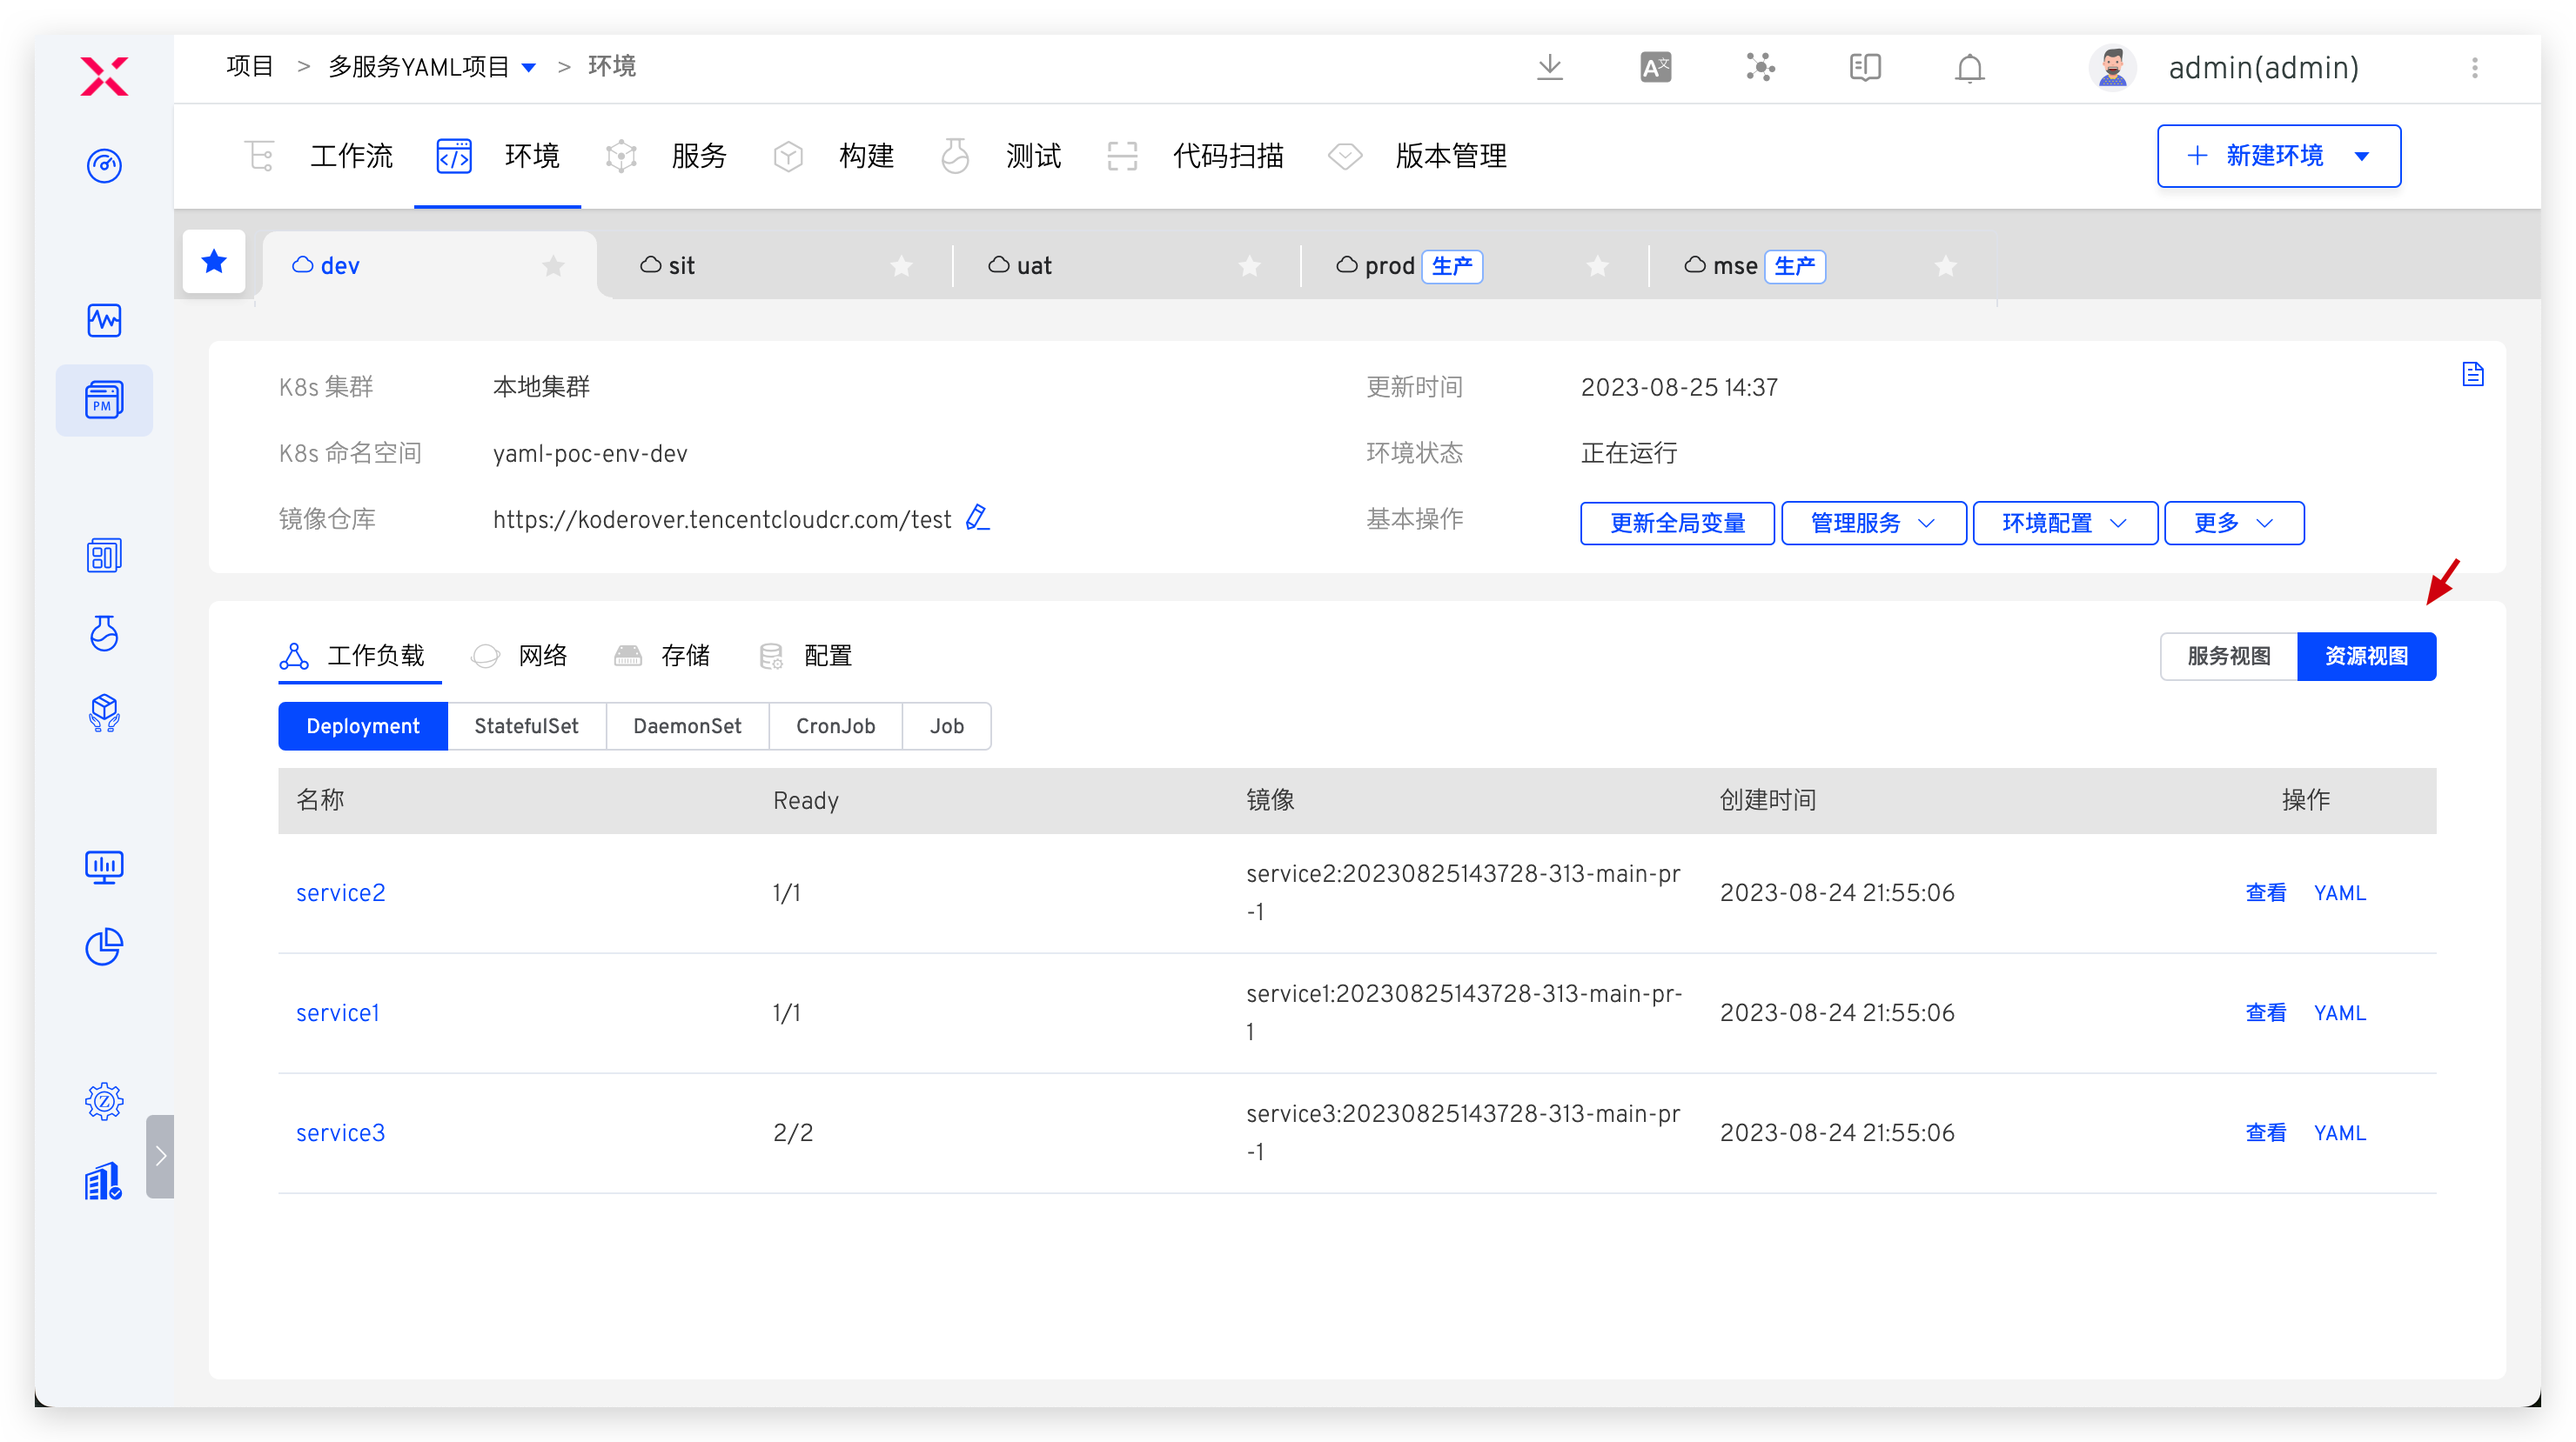
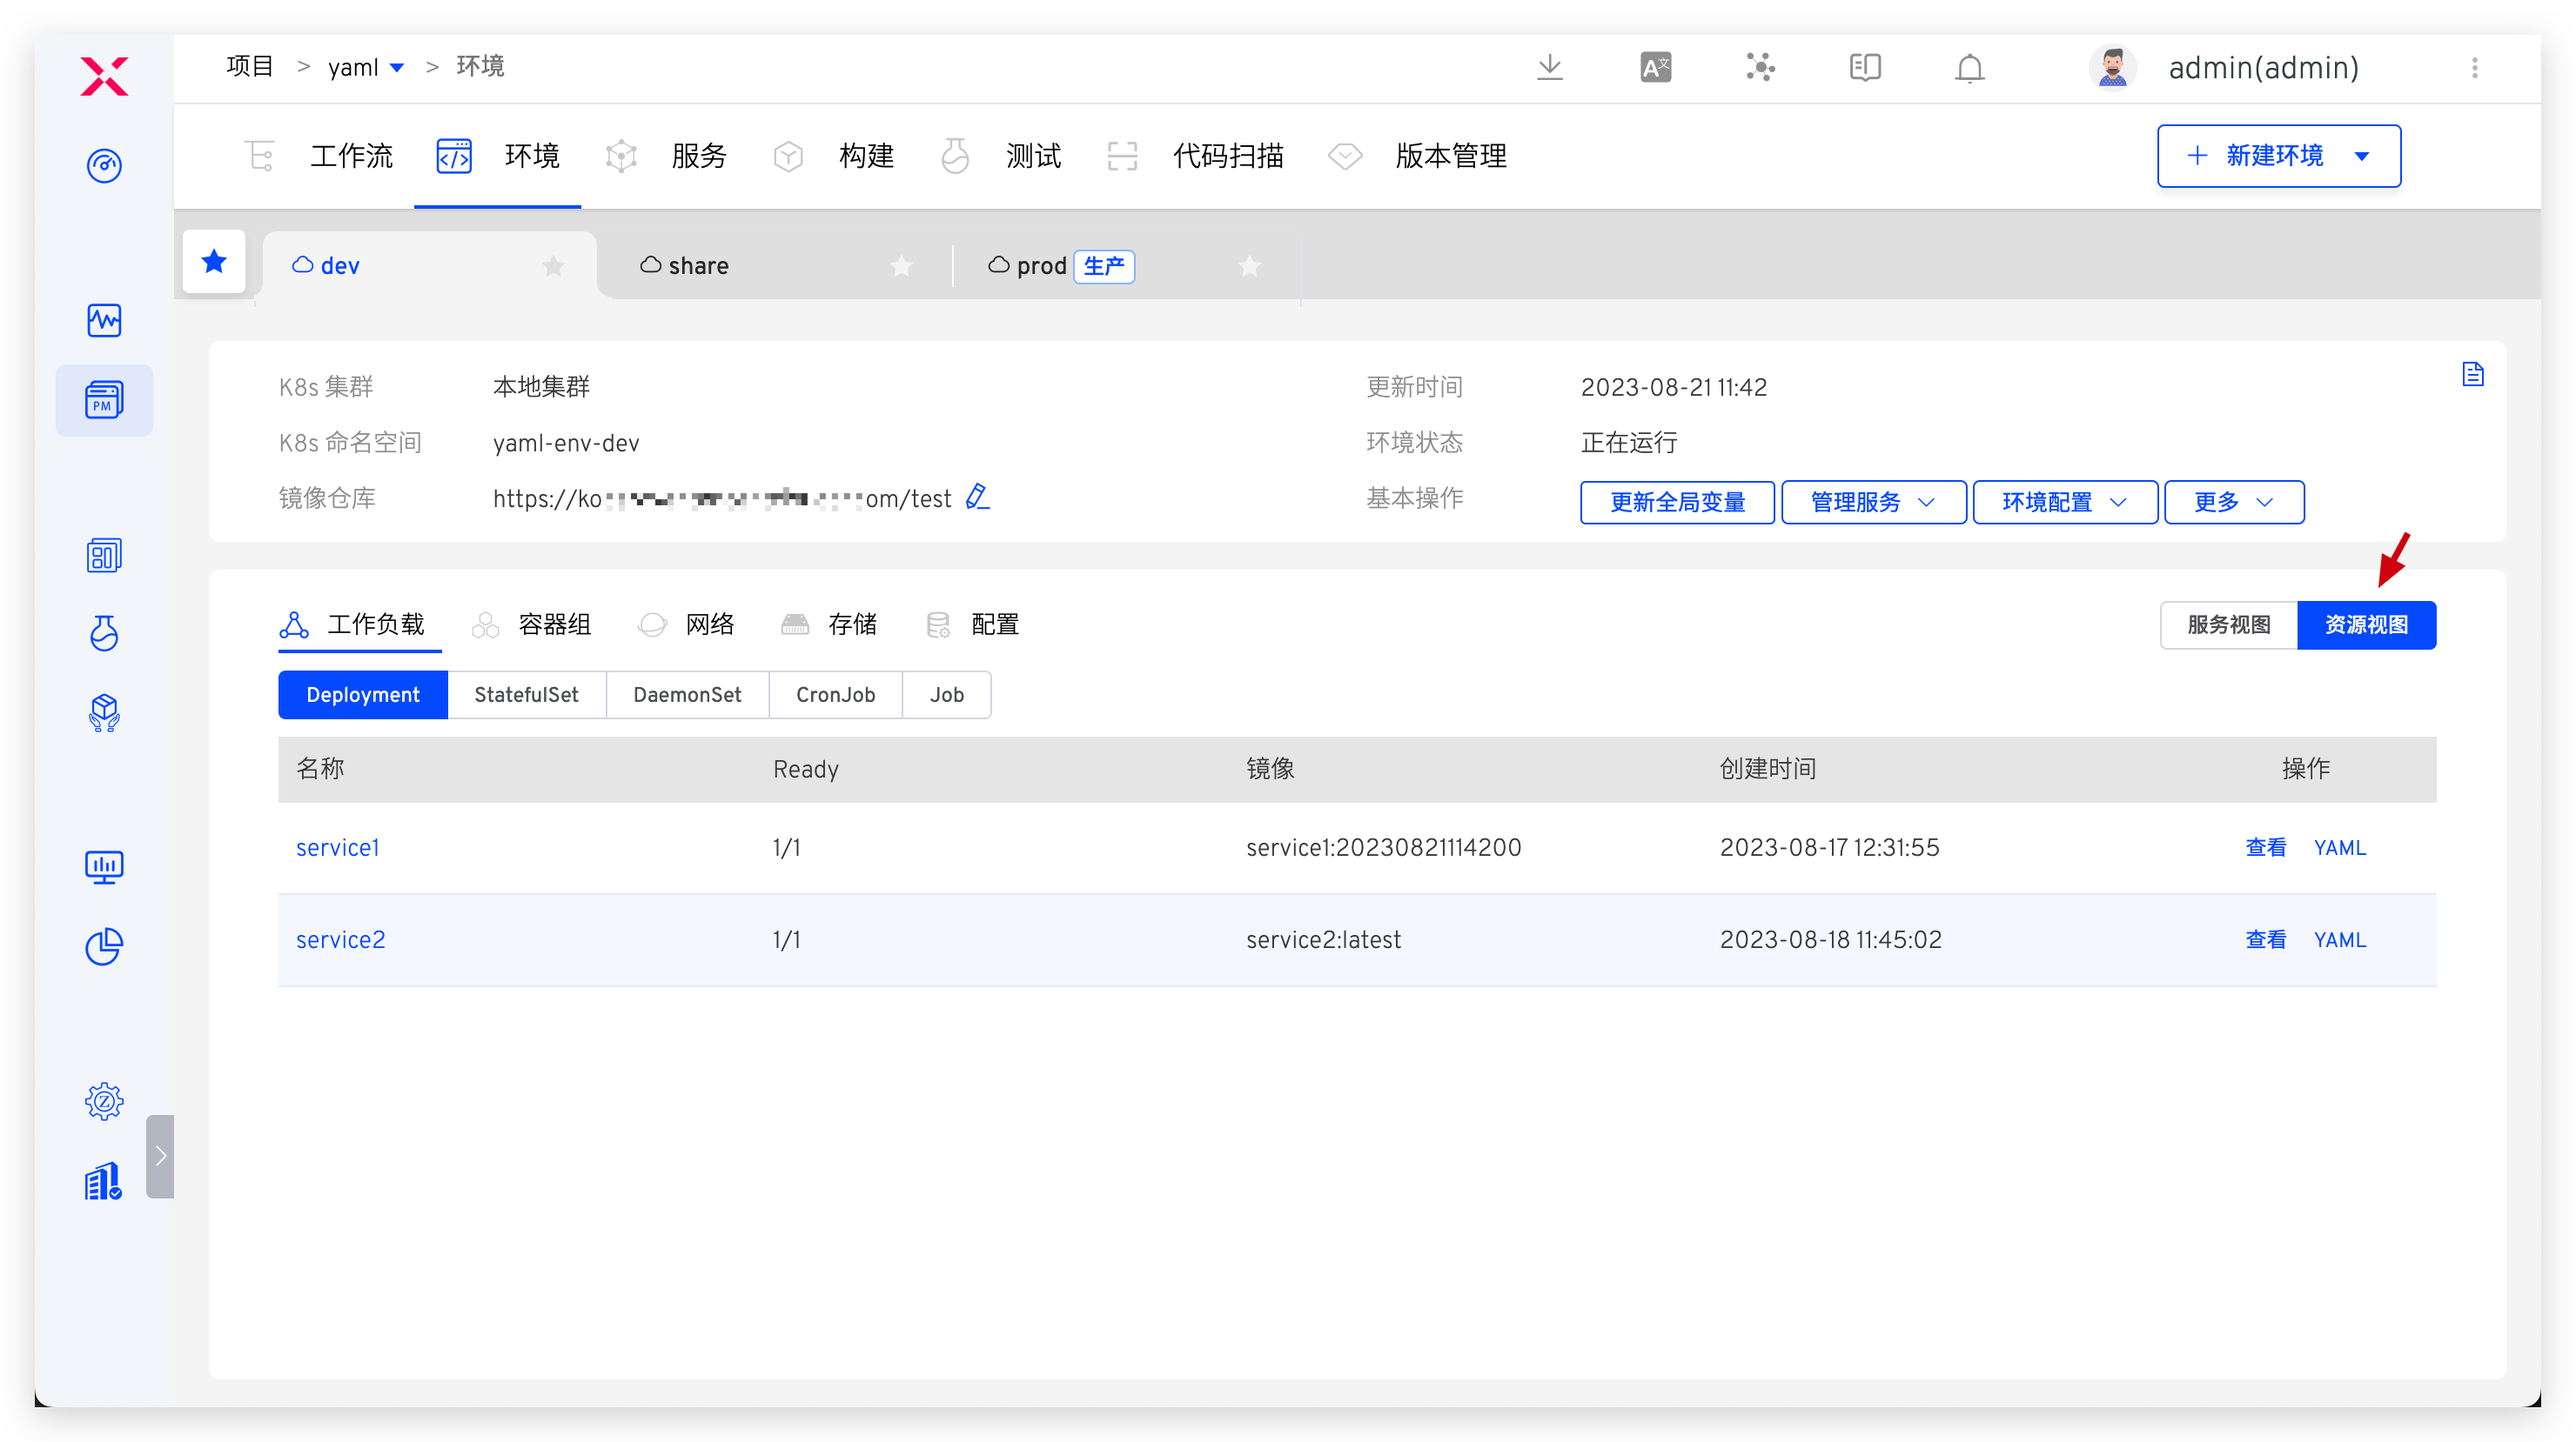
pod group in env

diff --git a/ZadigX dev/05.功能介绍/03.环境/03.k8s_helm_environment.md b/ZadigX dev/05.功能介绍/03.环境/03.k8s_helm_environment.md
@@ -8,7 +8,7 @@ permalink: /ZadigX dev/project/env/helm/chart/
 
 ## 查看环境
 
-环境创建完成后，点击不同的 Tab 即可切换到该环境的详情页面。点击`资源视图`，可从工作负载/网络/存储/配置等资源视角对该环境所在命名空间下的资源进行查看。
+环境创建完成后，点击不同的 Tab 即可切换到该环境的详情页面。点击`资源视图`，可从工作负载/容器组/网络/存储/配置等资源视角对该环境所在命名空间下的资源进行查看。
 
 <img src="../_images/show_helm_test_env.png" width="400">
 <img src="../_images/show_helm_test_env_resource_view.png" width="400">

diff --git a/ZadigX dev/05.功能介绍/03.环境/01.k8s_environment.md b/ZadigX dev/05.功能介绍/03.环境/01.k8s_environment.md
@@ -8,7 +8,7 @@ permalink: /ZadigX dev/project/env/k8s/
 
 ## 查看环境
 
-环境创建完成后，点击不同的环境 Tab 即可切换到该环境的详情页面，点击`资源视图`，可从工作负载/网络/存储/配置等资源视角对该环境所在命名空间下的资源进行查看。
+环境创建完成后，点击不同的环境 Tab 即可切换到该环境的详情页面，点击`资源视图`，可从工作负载/容器组/网络/存储/配置等资源视角对该环境所在命名空间下的资源进行查看。
 
 <img src="../_images/env_detail.png" width="400">
 <img src="../_images/env_detail_resource_view.png" width="400">
